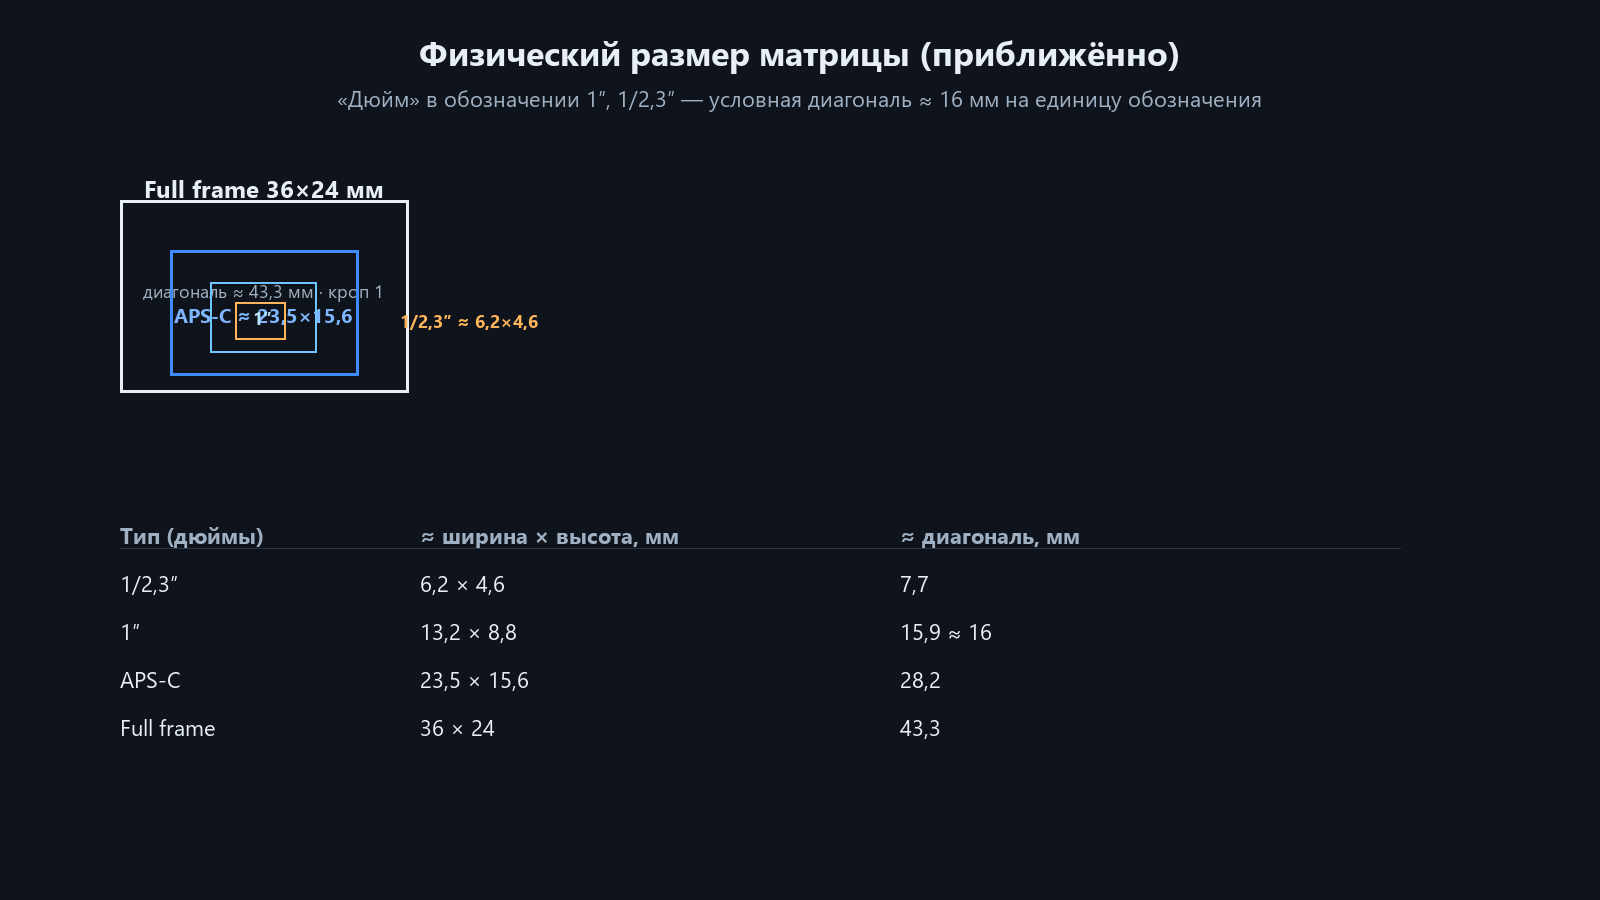
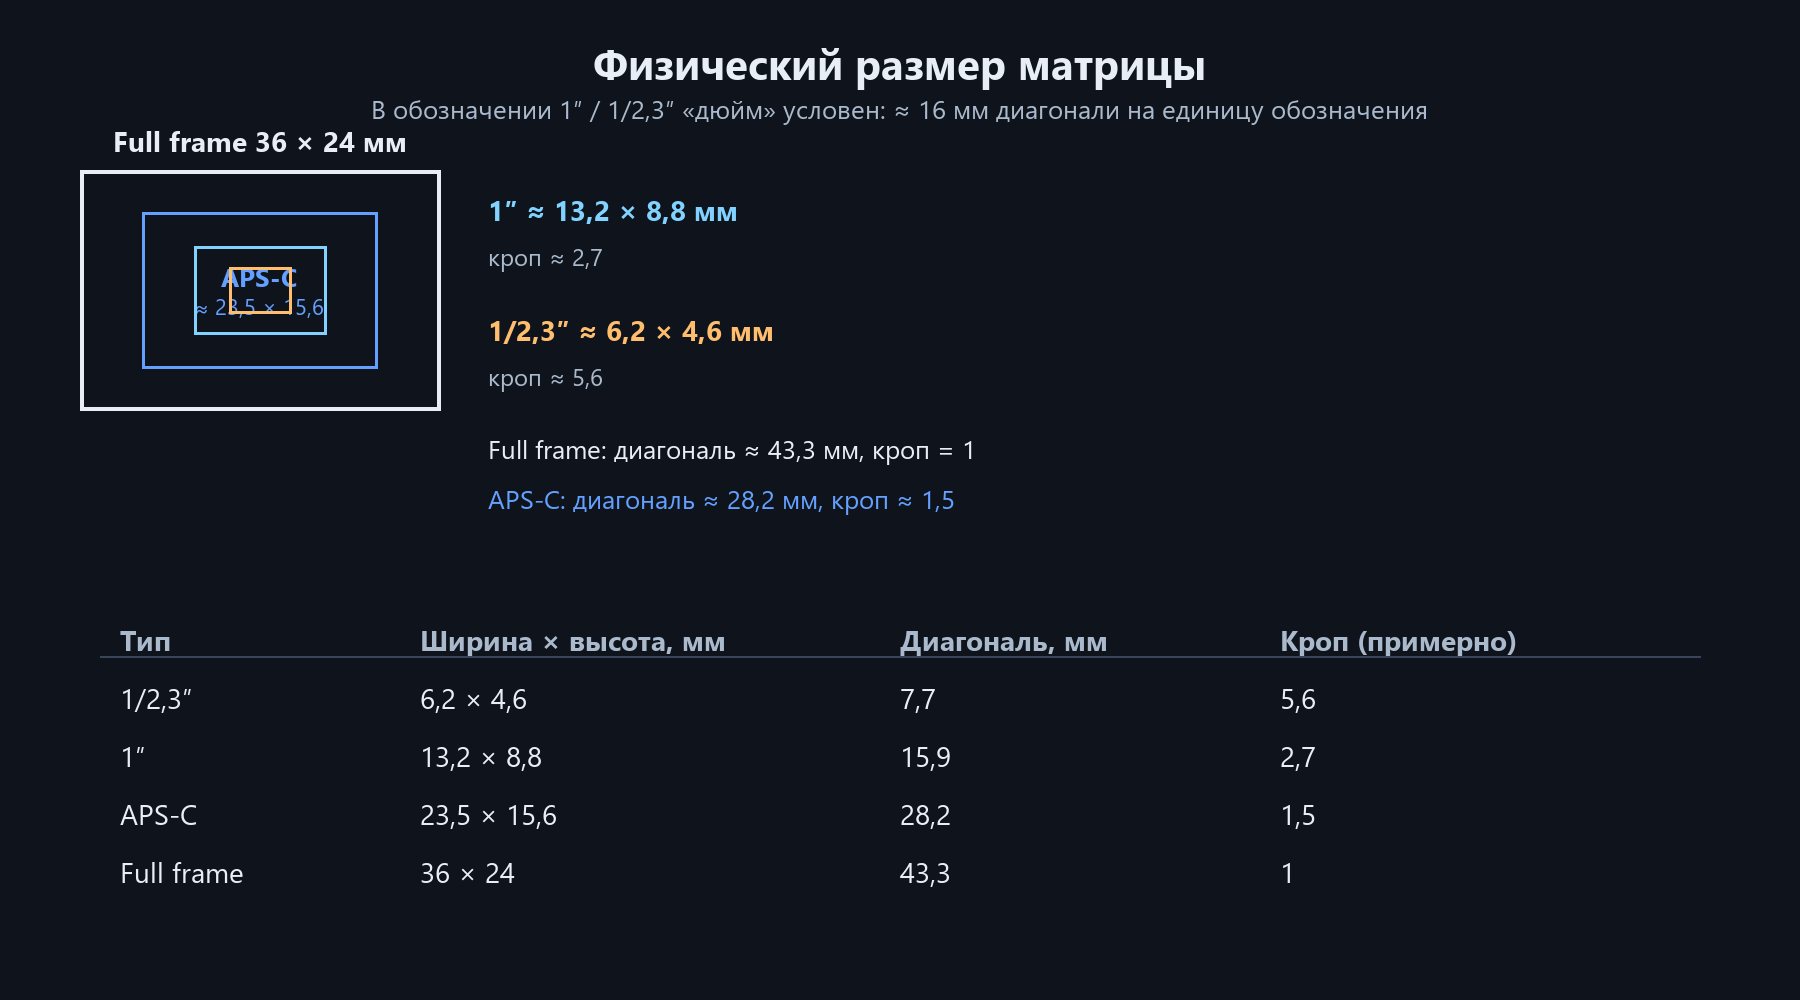
F04: fix slide layouts 3/7/9/10/13/18; readable sensor-size diagram.

diff --git a/lectures/03-04-matritsa/slides.html b/lectures/03-04-matritsa/slides.html
@@ -35,8 +35,8 @@
 
 <section class="slide">
   <h2>Пять операций сенсора</h2>
-  <div class="columns columns--text-first">
-    <div>
+  <div class="slide-stack">
+    <div class="columns columns--text-first">
       <ol>
         <li>поглотить фотоны</li>
         <li>превратить в заряд</li>
@@ -44,11 +44,13 @@
         <li>превратить в напряжение</li>
         <li>передать дальше</li>
       </ol>
+      <figure class="fig fig--plain">
+        <img src="images/s15_01.jpeg" alt="Матрица в разрезе / общий вид">
+      </figure>
     </div>
-    <div class="gallery gallery--plain">
-      <img src="images/s15_01.jpeg" alt="Матрица в разрезе / общий вид">
+    <figure class="fig fig-wide fig--plain">
       <img src="images/schemes/f03b-sensor-ops.png" alt="Пять операций сенсора">
-    </div>
+    </figure>
   </div>
 </section>
 
@@ -97,9 +99,9 @@
   </figure>
 </section>
 
-<section class="slide slide--dense slide--defn-lg">
+<section class="slide slide--dense">
   <h2>КМОП-матрица</h2>
-  <p class="defn">КМОП-матрица (CMOS, Complementary Metal Oxide Semiconductor — комплементарная структура металл–оксид–полупроводник) выполнена по КМОП-технологии. Каждый пиксель снабжён усилителем считывания; выборка сигнала с выбранного пикселя выполняется произвольно, как в микросхемах памяти.</p>
+  <p class="defn defn-full">КМОП-матрица (CMOS, Complementary Metal Oxide Semiconductor — комплементарная структура металл–оксид–полупроводник) выполнена по КМОП-технологии. Каждый пиксель снабжён усилителем считывания; выборка сигнала с выбранного пикселя выполняется произвольно, как в микросхемах памяти.</p>
   <div class="columns columns--text-wide">
     <ol class="legend-list">
       <li>светочувствительный элемент (фотодиод);</li>
@@ -142,7 +144,7 @@
 <section class="slide">
   <h2>ПЗС и КМОП: сравнение</h2>
   <div class="columns columns--text-wide">
-    <table class="data">
+    <table class="data data--bordered">
       <thead>
         <tr><th></th><th class="data-head-lg">ПЗС</th><th class="data-head-lg">КМОП</th></tr>
       </thead>
@@ -162,15 +164,17 @@
 
 <section class="slide">
   <h2>Формирование цветного изображения</h2>
-  <div class="columns columns--text-first">
-    <div>
+  <div class="slide-color-layout">
+    <div class="color-text">
       <p>Сам сенсель (пиксель) фиксирует только яркость (светлоту) в одном широком спектральном диапазоне и не различает цвета. Конкретные цвета получают, как правило, с помощью светофильтров и линз, пропускающих излучение в заданном диапазоне спектра.</p>
       <p class="caveat">Чувствительность матрицы — квантовая эффективность и порог, при котором фототок превышает темновой ток.</p>
     </div>
-    <div class="gallery gallery--plain">
-      <img src="images/s10_tricolor.png" alt="Разложение на цветовые каналы">
+    <figure class="color-side fig--plain">
       <img src="images/s_sensitivity.jpg" alt="Чувствительность матрицы">
-    </div>
+    </figure>
+    <figure class="color-main fig--plain">
+      <img src="images/s10_tricolor.png" alt="Разложение на цветовые каналы">
+    </figure>
   </div>
 </section>
 
@@ -195,19 +199,19 @@
   </ol>
 </section>
 
-<section class="slide slide--dense">
+<section class="slide slide--dense slide--pair-fit">
   <h2>3CCD и Foveon</h2>
   <div class="columns">
     <div>
       <h3>3CCD</h3>
-      <p>Световой поток разделяется призмой на три спектральные составляющие; каждая регистрируется отдельной матрицей. На каждый пиксель — полное измерение трёх каналов без мозаичной интерполяции.</p>
+      <p>Световой поток разделяется призмой на три спектральные составляющие; каждая регистрируется отдельной матрицей. На каждый пиксель приходится полное измерение трёх каналов без мозаичной интерполяции.</p>
       <figure class="fig fig--plain">
         <img src="images/s19_01.jpg" alt="3CCD">
       </figure>
     </div>
     <div>
       <h3>Foveon</h3>
-      <p>Трёхслойный сенсор: фотоны разных длин волн поглощаются на разной глубине кремния. Цвет в одном столбце пикселей без цветной мозаики на поверхности.</p>
+      <p>Трёхслойный сенсор: фотоны разных длин волн поглощаются на разной глубине кремния. Цветовые каналы формируются в одном столбце пикселей без цветной мозаики на поверхности.</p>
       <figure class="fig fig--plain">
         <img src="images/s14_foveon.jpg" alt="Foveon X3">
       </figure>
@@ -250,7 +254,6 @@
 
 <section class="slide">
   <h2>Стандартные размеры матриц</h2>
-  <p class="caveat">В обозначениях вида 1″, 1/2,3″ «дюйм» условен: примерно 16&nbsp;мм диагонали на единицу обозначения, это не длина по линейке.</p>
   <figure class="fig fig-lg fig--plain">
     <img src="images/schemes/f04-sensor-sizes.png" alt="Стандартные физические размеры матриц">
   </figure>

diff --git a/css/course.css b/css/course.css
@@ -369,13 +369,87 @@ body.mode-slides .topbar { position: fixed; left: 0; right: 0; top: 0; }
 .slide--defn-lg:not(.slide--dense) .defn {
   font-size: clamp(20px, 2.4vw, 30px);
 }
-.data th.data-head-lg {
-  font-size: clamp(18px, 2.2vw, 28px);
-  text-transform: none;
-  letter-spacing: 0;
-  font-weight: 800;
-  color: var(--text);
-  padding: 12px 14px;
+.data--bordered {
+  border: 1px solid rgba(255,255,255,0.28);
+  border-radius: 8px;
+  overflow: hidden;
+}
+.data--bordered th,
+.data--bordered td {
+  border: 1px solid rgba(255,255,255,0.22);
+}
+.data--bordered tr:last-child td { border-bottom: 1px solid rgba(255,255,255,0.22); }
+
+.slide-stack {
+  display: flex;
+  flex-direction: column;
+  gap: 10px;
+  flex: 1;
+  min-height: 0;
+}
+.slide-stack > .columns {
+  flex: 0 0 auto;
+}
+.slide-stack > .fig,
+.slide-stack > .fig-wide {
+  flex: 1 1 auto;
+  min-height: 0;
+}
+.fig-wide {
+  width: 100%;
+}
+.fig-wide img {
+  max-height: 100%;
+  width: 100%;
+  object-fit: contain;
+}
+
+.slide-color-layout {
+  display: grid;
+  grid-template-columns: minmax(0, 1.2fr) minmax(200px, 0.8fr);
+  grid-template-rows: auto minmax(0, 1fr);
+  gap: 12px 18px;
+  flex: 1;
+  min-height: 0;
+}
+.slide-color-layout .color-text { grid-column: 1; grid-row: 1; }
+.slide-color-layout .color-side {
+  grid-column: 2;
+  grid-row: 1;
+  min-height: 0;
+}
+.slide-color-layout .color-main {
+  grid-column: 1 / -1;
+  grid-row: 2;
+  min-height: 0;
+  display: flex;
+  align-items: center;
+  justify-content: center;
+}
+.slide-color-layout .color-main img {
+  max-height: 100%;
+  max-width: min(100%, 920px);
+  width: auto;
+  object-fit: contain;
+  background: transparent;
+}
+.slide-color-layout .color-side img {
+  max-height: 180px;
+  width: auto;
+  margin-left: auto;
+  display: block;
+  background: transparent;
+}
+
+.slide--pair-fit .columns { gap: 14px; }
+.slide--pair-fit .fig { flex: 1 1 auto; min-height: 0; }
+.slide--pair-fit .fig img { max-height: 42vh; }
+
+.defn-full {
+  max-width: none !important;
+  width: 100%;
+  font-size: clamp(20px, 2.35vw, 30px);
+  margin: 4px 0 10px;
 }
 .fig--plain img,
 .gallery--plain img {
